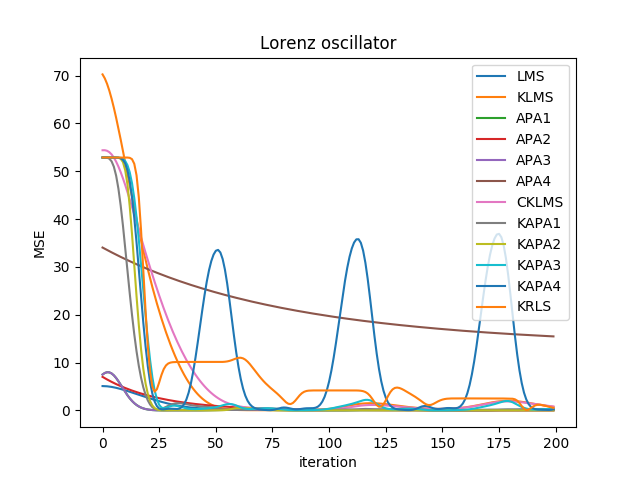
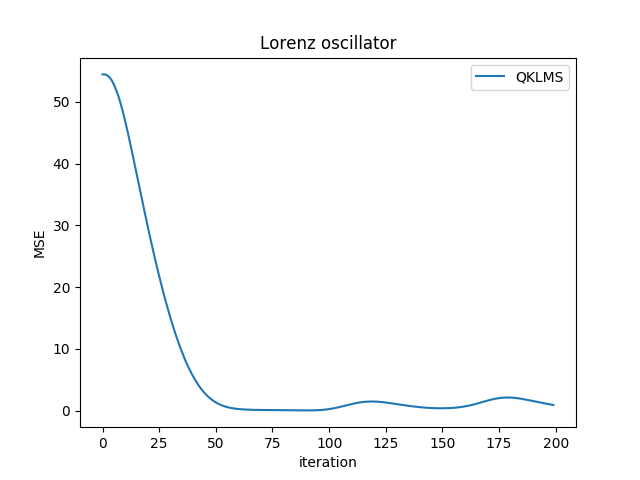
Fixes QKLMS.

diff --git a/lorenz.py b/lorenz.py
@@ -89,7 +89,7 @@ if __name__ == '__main__':
         APA3(X[0], T[0], 10, 0.0001, 0.01),
         APA4(X[0], T[0], 10, 0.005),
         CKLMS(X[0], T[0], 0.03, 10, 10),
-        # QKLMS(TD, X[0], T[0], 0.3, 50, 10),  # not working
+        QKLMS(TD, X[0], T[0], 0.03, 1, 10),
         KAPA1(X[0], T[0], 10, 0.3, 5),
         KAPA2(X[0], T[0], 0.2, 2.25, 10),
         KAPA3(X[0], T[0], 0.1, 2.25, 10),
@@ -105,5 +105,5 @@ if __name__ == '__main__':
     plt.ylabel('MSE')
     plt.xlabel('iteration')
     plt.title('Lorenz oscillator')
-    plt.savefig('./compare-lorenz-1.png')
-    # plt.show()
+    #plt.savefig('./compare-lorenz-1.png')
+    plt.show()

diff --git a/filters.py b/filters.py
@@ -322,7 +322,8 @@ class QKLMS(KLMS):
         min_distance=1,
         sigma=0.5
     ):
-        super().__init__(first_input, first_output, learning_step, sigma)
+        super().__init__(
+            num_params, first_input, first_output, learning_step, sigma)
         self.min_distance = min_distance
 
     def update(self, new_input, expected):
